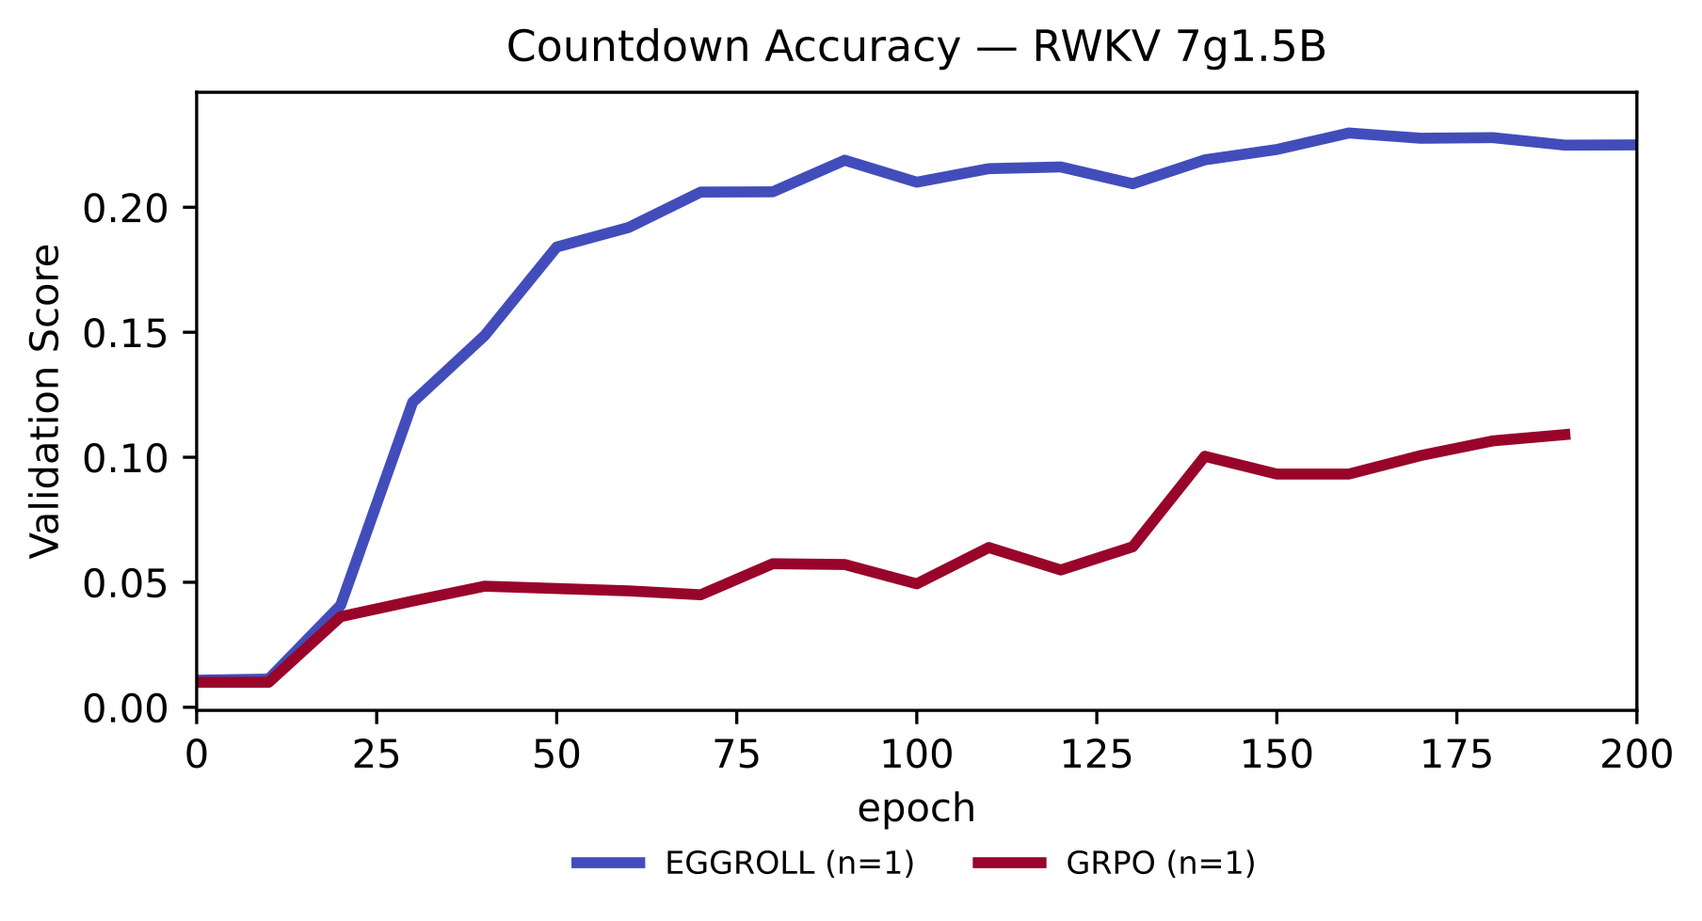
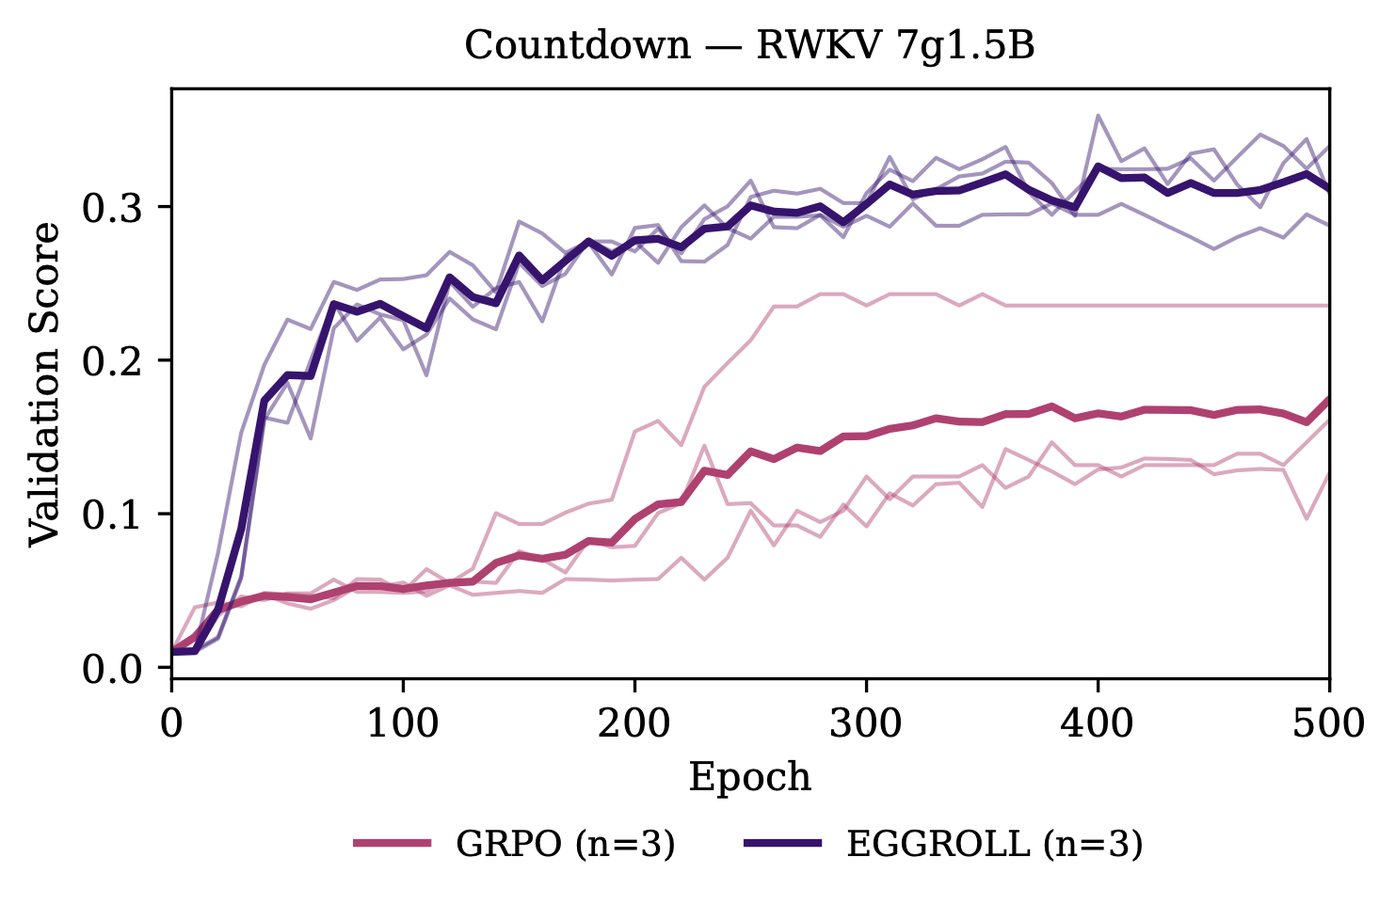
Blog update

diff --git a/blog/hyperscale_es/index.html b/blog/hyperscale_es/index.html
@@ -3,7 +3,7 @@
 "http://www.w3.org/TR/xhtml1/DTD/xhtml1-strict.dtd">
 <html xmlns="http://www.w3.org/1999/xhtml" lang="en" xml:lang="en">
 <head>
-<!-- 2025-11-09 Sun 21:47 -->
+<!-- 2025-11-21 Fri 13:16 -->
 <meta http-equiv="Content-Type" content="text/html;charset=utf-8" />
 <meta name="viewport" content="width=device-width, initial-scale=1" />
 <title>Evolution Strategies at the Hyperscale</title>
@@ -71,63 +71,51 @@
 
 
 <div><div><div><div><div class="content_inner"><section id="home"></section></div></div>
-<div id="outline-container-org0182930" class="outline-2">
-<h2 id="org0182930"><b>Evolution Strategies at the Hyperscale</b></h2>
-<div class="outline-text-2" id="text-org0182930">
+<div id="outline-container-org2916cfc" class="outline-2">
+<h2 id="org2916cfc"><b>Evolution Strategies at the Hyperscale</b></h2>
+<div class="outline-text-2" id="text-org2916cfc">
 <p class="c48">General ML Training Made as Fast and Easy as Inference</p><hr>
 
 <p>
 <i>Written by: <a href="https://bsarkar321.github.io/">Bidipta Sarkar</a></i><br />
-<i>Edited by: TODO</i><br />
 </p>
 
-<img src="throughput.png" style="width:80%;image-rendering:auto;">
+<img src="header.png" style="width:100%;image-rendering:auto;">
 
 <p>
-We are excited to introduce EGGROLL, a general-purpose algorithm for training ML systems (including LLMs) that matches the speed and resource requirements of batched inference, giving us 3x the speed of RL. EGGROLL is a variant of <a href="https://lilianweng.github.io/posts/2019-09-05-evolution-strategies/">Evolution Strategies</a> that uses batched LoRA inference to generate full-rank parameter updates, and we empirically find that it is comparable to full-parameter evolution per update while being orders of magnitude faster at large population sizes.<br />
-</p>
-
-<p>
-EGGROLL effectively <b>eliminates</b> the barrier between inference and training. In particular, <b>any system for high-throughput batched LoRA inference can now be converted into a system for high-throughput general neural network training</b>. In addition to standard ML settings, like supervised learning or reinforcement learning, this enables us to train networks that are aware of complex inference-time systems, such as multi-agent LLM systems or complex samplers where reinforcement learning would struggle.<br />
+We are excited to introduce EGGROLL, a general-purpose algorithm for training ML systems (including LLMs) that nearly matches the speed and resource requirements of batched inference, giving a <b>hundredfold increase in training throughput</b> over standard ES for billion-parameter models at large population sizes. EGGROLL is a variant of <a href="https://lilianweng.github.io/posts/2019-09-05-evolution-strategies/">Evolution Strategies</a> (ES) that uses low-rank perturbations of the model parameters to generate full-rank parameter updates.<sup><a id="fnr.large_enough" class="footref" href="#fn.large_enough" role="doc-backlink">1</a></sup><br />
 </p>
 
 <p>
-In the rest of this blog post, we describe the EGGROLL algorithm and show how it performs in classic ES settings (tabula-rasa game learning) and common LLM "reasoning" settings. We will also show preliminary experiments of high-throughput pretraining of a nonlinear RNN language model, where all the weights are in int8 and floating-point operations are never used, a task that is only made practical by EGGROLL.<br />
+As an ES variant, EGGROLL is general enough to optimize the model parameters within any inference system. Thanks to its increased efficiency, EGGROLL effectively <b>eliminates</b> the barrier between inference and training. Specifically, if you can perform <i>batched LoRA inference</i> on a system and define a <i>fitness</i> function, which specifies the relative performance of a neural network system on a task, EGGROLL can optimize all the parameters of that system to maximize the fitness function.<br />
 </p>
 
-
-<blockquote>
 <p>
-TL;DR: We introduce a new evolution-based method called EGGROLL. We show that:<br />
+In the rest of this blog post, we describe the EGGROLL algorithm and highlight experimental results on high-throughput pretraining of a <i>pure integer</i> nonlinear RNN language model that uses <i>no activation functions</i>, a task that is only made feasible by EGGROLL. We also demonstrate its potential as an RL alternative by training RWKV7 models on the countdown and gsm8k reasoning tasks.<br />
 </p>
-<div class="step2bullets">
-<ul class="org-ul">
-<li>In classic tabula-rasa game learning with small networks, EGGROLL does not compromise performance relative to standard ES, matching the method in <a href="https://arxiv.org/abs/1703.03864">OpenAI's Evolution Strategies paper</a> on a single GPU.<br /></li>
-<li>On LLM "reasoning" settings EGGROLL gets comparable results to <a href="https://arxiv.org/abs/2509.24372">concurrent work on naive ES on LLMs</a> <sup><a id="fnr.1" class="footref" href="#fn.1" role="doc-backlink">1</a></sup> on the countdown task using the RWKV-7 language model.<br /></li>
-<li>EGGROLL can stably train a nonlinear RNN language model, where the weights are in int8 and all operations are done on integers.<br /></li>
-</ul>
-</div>
 
 <p>
 To accompany this blog post, we also release:<br />
 </p>
 <div class="step2bullets">
 <ul class="org-ul">
-<li>A jax-based experimental neural network library to use EGGROLL on custom settings, along with starter code for training the RWKV language model.<br /></li>
-<li>A single-file implementation of pure int8 language model training. We highly encourage community contributions, similar to the <a href="https://github.com/KellerJordan/modded-nanogpt/tree/master">nanogpt speedrun</a>, to see how efficient we can make pure evolution pretraining in integer formats!<br /></li>
+<li>A <a href="https://www.alphaxiv.org/abs/2511.16652">full paper</a> detailing our theory and experimental results.<br /></li>
+<li>A <a href="https://github.com/ESHyperscale/HyperscaleES">jax-based experimental neural network library</a> to use EGGROLL on custom settings, along with starter code for training the RWKV language model.<br /></li>
+<li>A <a href="https://github.com/ESHyperscale/nano-egg">single-file implementation of pure int8 language model training</a>. We highly encourage community contributions, similar to the <a href="https://github.com/KellerJordan/modded-nanogpt/tree/master">nanogpt speedrun</a>, to see how efficient we can make pure evolution pretraining in integer formats!<br /></li>
 </ul>
 </div>
 
 <p>
-This is an early research checkpoint of our work. We will continue iterating on our methods and results, but we wanted to share these results early with the community to get feedback and more thoughts.<br />
+This is an early research checkpoint of our work. We will continue iterating on our methods and results, but we wanted to share these results early with the community to get feedback and more thoughts. We will be actively monitoring our <a href="https://www.alphaxiv.org/abs/2511.16652">alphaxiv discussion</a> page, so please add comments and questions there.<br />
 </p>
-</blockquote>
 </div>
 </div>
-<div id="outline-container-orgb72affc" class="outline-2">
-<h2 id="orgb72affc">What is EGGROLL</h2>
-<div class="outline-text-2" id="text-orgb72affc">
-<p><b>EGGROLL</b> stands for <b>E</b>volution <b>G</b>uided <b>G</b>roup <b>R</b>elative <b>O</b>nline <b>L</b>ow-rank <b>L</b>earning.</p>
+<div id="outline-container-orgf37ca9d" class="outline-2">
+<h2 id="orgf37ca9d">What is EGGROLL</h2>
+<div class="outline-text-2" id="text-orgf37ca9d">
+<p><b>EGGROLL</b> stands for <b>E</b>volution <b>G</b>uided <b>G</b>ene<b>r</b>al <b>O</b>ptimization via <b>L</b>ow-rank <b>L</b>earning. The method is illustrated in the figure below</p>
+
+<img src="diagram.png" style="width:100%;image-rendering:auto;">
 
 <p>
 To explain each part of the acronym, we will first give a brief overview on how <b>Evolution Strategies</b> works; for a more complete description of the history and variants, we highly recommend <a href="https://lilianweng.github.io/posts/2019-09-05-evolution-strategies/">Lilian Weng's blog post on ES</a>.<br />
@@ -142,7 +130,7 @@ Evolution Strategies work by directly optimizing the parameters of a neural netw
 </p>
 
 <p>
-where \(F\) is the fitness function, which measures how good a specific set of parameters are at the task at hand similar to the reward function in RL, \(\theta\) are the parameters you are optimizing, and \(\sigma\) is the standard deviation of the noise to add to the parameters. Typically the fitness function is not the raw rewards, since that would be sensitive to the scale of rewards, so we instead borrow the <b>Group Relative</b> normalization from <a href="https://arxiv.org/abs/2503.20783">DR GRPO</a>.<br />
+where \(F\) is the fitness function, which measures how good a specific set of parameters are at the task at hand similar to the reward function in RL, \(\theta\) are the parameters you are optimizing, and \(\sigma\) is the standard deviation of the noise to add to the parameters.<br />
 </p>
 
 <p>
@@ -164,7 +152,7 @@ Note that standard matrix multiplication has now turned into a batched matrix mu
 </p>
 
 <p>
-Our approach is instead to structure our perturbations to explicitly be low-rank. This enables us to do a large standard matrix multiplication, alongside a batched vector-vector multiplication and batched scalar-vector multipliation at rank 1. This is extremely fast and scalable, giving us the throughput curves in the headline image (less than 20% slower than pure non-lora inference). In jax, this is represented as:<br />
+Our approach is instead to structure our perturbations to explicitly be low-rank. This enables us to do a large standard matrix multiplication, alongside a batched vector-vector multiplication and batched scalar-vector multipliation at rank 1. This is extremely fast and scalable, giving us the throughput curves in the headline image (less than 10% slower than pure non-lora inference). In jax, this is represented as:<br />
 </p>
 <div class="org-src-container">
 <pre class="src src-python"><span class="linenr">1: </span><span style="color: #C678DD;">def</span> <span style="color: #61AFEF;">forward</span>(base_perturbation_key, sigma, parameter, x, thread_id, rank=1):
@@ -188,23 +176,55 @@ In the limit as rank increases<sup><a id="fnr.3" class="footref" href="#fn.3" ro
 </p>
 
 <p>
-Note that although individual perturbations are low-rank, the expression on the right side is actually high-rank, due to the properties of sums of low-rank matrices. We directly fuse this high rank update into the parameters at each update step, which is why we refer to this as <b>Online Low-rank Learning</b>. In comparison, using ES to directly optimize LoRA matrices will still be restricted to a low-rank perturbation, which may be <a href="https://thinkingmachines.ai/blog/lora/">enough for LLM reasoning</a> but not sufficient for supervised fine-tuning or training from scratch.<br />
+Note that although individual perturbations are low-rank, the expression on the right side is actually high-rank, due to the properties of sums of low-rank matrices. We directly fuse this high rank update into the parameters at each update step, which is why we refer to this as <b>Online Low-rank Learning</b>. In comparison, using ES to directly optimize LoRA matrices will still be restricted to a low-rank perturbation, which may be <a href="https://thinkingmachines.ai/blog/lora/">enough for LLM reasoning</a> but not sufficient for pretraining or supervised fine-tuning.<br />
 </p>
 </div>
 </div>
-<div id="outline-container-orgb5b7297" class="outline-2">
-<h2 id="orgb5b7297">Tabula Rasa Environment Learning</h2>
-<div class="outline-text-2" id="text-orgb5b7297">
+<div id="outline-container-orgcd91180" class="outline-2">
+<h2 id="orgcd91180">Training an EGG: Pure Integer Pretraining of a Nonlinear RNN with No Activation Functions</h2>
+<div class="outline-text-2" id="text-orgcd91180">
 <p>
-Evolution Strategies have historically been used as an alternative to reinforcement learning methods, due to its easy scalability on CPU clusters, as done in <a href="https://arxiv.org/abs/1703.03864">OpenAI's Evolution Strategies paper</a>. To demonstrate that the low-rank update does not compromise the performance of ES on these settings, we run experiments on [insert environments here].<br />
+To highlight the strength and flexibility of EGGROLL, we wanted to demonstrate that it can be used for training architectures that would previously be impractical or extremely difficult with typical backprop. We therefore work under the following constraints:<br />
+</p>
+
+<p>
+<b>Pure Integer Training.</b> Although prior work, like <a href="https://arxiv.org/abs/2310.11453">BitNet</a>, does quantization-aware training, we propose <i>end-to-end</i> training with pure integer datatypes. This means storing all weights in int8, as this is the fastest supported datatype on <a href="https://www.nvidia.com/en-gb/data-center/h100/">H100s</a>, and <i>only</i> using integer operations and lookup tables, including layernorms and the softmax operation for the loss calculation.<br />
+</p>
+
+<p>
+<b>Nonlinear RNN.</b> Modern language models require sequence-parallel architectures, like Transformers or state-space models, in order to avoid expensive backpropagation through time. However, these sequence-parallel architectures are unable to handle <a href="https://arxiv.org/abs/2404.08819">simple state-tracking</a>, while older RNNs, like LSTMs and GRUs, can handle these with only a single layer. We use a custom variant of <a href="https://arxiv.org/abs/1701.03452">minGRU</a> to demonstrate that sequence-parallelism is not needed for evolution, just a very large batch size to process multiple token sequences in parallel. With evolution, we can optimize for any sequence length without increasing memory requirements and take multiple updates within a single sequence using <a href="https://arxiv.org/abs/2304.12180v2">Noise-Reuse ES</a>.<br />
+</p>
+
+<p>
+<b>Removal of ALL Activation Functions.</b> Inspired by prior work that uses ES to <a href="https://openai.com/index/nonlinear-computation-in-deep-linear-networks/">exploit the nonlinear dynamics of floating-point operations</a>, we realize that the int8 tensor multiplication (with int32 accumulation) becomes a nonlinear operation when casting back to int8 due to its limited dynamic range. Therefore, we remove all activation functions from our MLP blocks and use no nonlinearities for the minGRU block, removing the tanh and sigmoid.<br />
+</p>
+
+<p>We name our architecture the <b>E</b>volved <b>G</b>enerative <b>G</b>ru, or <b>EGG</b> for short.</p>
+
+<p>
+To optimize EGG with EGGROLL, we keep the core infrastructure, but we make slight modifications to the optimization process. In particular, instead of taking arbitrarily large updates, we check if the update is larger than some threshold before pushing it one step in that direction. We do not use any dedicated optimizer states, like momentum, but this would be an interesting future direction.<br />
+</p>
+
+<p>
+To test our architecture and method, we trained a small D256-L6 parameter model to perform character-level language modeling on the <a href="https://huggingface.co/datasets/JeanKaddour/minipile">MiniPile</a> dataset, feeding 100 bytes per population member per update step, achieving 10 million tokens per second on a single H100. Our final loss curves are in the header figure of this blog post. We see that an 8 times larger population size results in a drop in loss of 0.4 bits/byte, achieving the best test loss of 3.41 bits/byte. Note that the population size we use is \(2^{18}=262144\), which is <b>two orders of magnitude larger</b> than population size used in <a href="https://arxiv.org/abs/1703.03864">OpenAI's ES work</a>.<br />
+</p>
+
+<p>
+We also see that ES can be quite data efficient. In particular, if each training sequence is shared among 512 members of the population (solid lines in the figure below), we get similar performance to only sharing among pairs (dashed lines) when the population size is large enough.<br />
+</p>
+
+<img src="data_efficient_pretrain_loss.png" style="width:100%;image-rendering:auto;">
+
+<p>
+We are actively working on scaling up training to larger population sizes and testing out alternative architectures. If you'd like to learn more and contribute to the development of this esoteric model, check out our <a href="https://github.com/ESHyperscale/nano-egg">single-file codebase</a>.<br />
 </p>
 </div>
 </div>
-<div id="outline-container-org3b16f0d" class="outline-2">
-<h2 id="org3b16f0d">LLM Reasoning</h2>
-<div class="outline-text-2" id="text-org3b16f0d">
+<div id="outline-container-orgbe2a414" class="outline-2">
+<h2 id="orgbe2a414">LLM Reasoning</h2>
+<div class="outline-text-2" id="text-orgbe2a414">
 <p>
-To highlight the scalability of our method, we do standard LLM "reasoning" training on the RWKV-7 language models.<br />
+In addition to our EGG model, we find that EGGROLL is a generally strong method for LLM fine-tuning. In particular, to highlight the scalability of our method, we do standard LLM "reasoning" training on the RWKV-7 language models with billions of parameters.<br />
 </p>
 
 <button type="button" class="collapsible" onclick="toggleCollapse(this)">Why RWKV?</button>
@@ -223,54 +243,36 @@ We are actively working on a vLLM and Megatron port with advisors from NVIDIA, w
 </div>
 
 <p>
-We first test our method on the countdown task to compare against the core results of the concurrent paper on <a href="https://arxiv.org/abs/2509.24372">ES with LLMs</a>. On the RWKV 1.5B model, we outperform the DR GRPO baseline, landing between the reported results of LLaMA-3.2 1B and Qwen 2.5 1.5B:<br />
+We first test our method on the countdown task to compare against the core results of the concurrent paper on <a href="https://arxiv.org/abs/2509.24372">ES with LLMs</a>.<sup><a id="fnr.4" class="footref" href="#fn.4" role="doc-backlink">4</a></sup> On the RWKV 1.5B model, we outperform the GRPO baseline, landing between the reported results of LLaMA-3.2 1B and Qwen 2.5 1.5B:<br />
 </p>
 <img src="countdown_small.png" style="width:80%;image-rendering:auto;">
 
 <p>
-For the 7B model, we outperform all reported results from the other paper<sup><a id="fnr.grpocountdown" class="footref" href="#fn.grpocountdown" role="doc-backlink">4</a></sup>:<br />
+For the 7B model, we outperform all reported results from the other paper despite starting from a weaker base model:<br />
 </p>
-<img src="countdown_large.png" style="width:80%;image-rendering:auto;">
+<img src="countdown_medium.png" style="width:80%;image-rendering:auto;">
 
 <p>
-We also test our model on math benchmarks, namely GSM8K and AIME. [TODO]<br />
+We also train our model on GSM8K and find that we outperform GRPO:<br />
 </p>
+<img src="gsm8k_medium.png" style="width:80%;image-rendering:auto;">
 </div>
 </div>
-<div id="outline-container-orgee37ebe" class="outline-2">
-<h2 id="orgee37ebe">Pure Integer Pretraining</h2>
-<div class="outline-text-2" id="text-orgee37ebe">
+<div id="outline-container-org7e2bd48" class="outline-2">
+<h2 id="org7e2bd48">Next Steps</h2>
+<div class="outline-text-2" id="text-org7e2bd48">
 <p>
-To highlight the potential of EGGROLL for training beyond gradient-based methods, we built a new language model architecture designed for fast inference that can work across a variety of accelerators. Some of the design decision include:<br />
-</p>
-<div class="step2bullets">
-<ul class="org-ul">
-<li>Storing all weights and performing all matrix multiplications in int8, as this is the fastest supported datatype on <a href="https://www.nvidia.com/en-gb/data-center/h100/">H100s</a>.<br /></li>
-<li>Never casting to floating point, because keeping all operations in integer formats can enable simpler accelerators. Our model only conducts int8 matrix multiplications (with int32 accumulate) and integer vector addition, multiplication, clipping, and bitwise manipulations. In fact, even our fitness calculation of the log likelihood of generation is done in int32 and precalculated lookup tables. Although prior work like <a href="https://arxiv.org/abs/2310.11453">BitNet</a> does quantization-aware training, we are not aware of prior work to keep the entire training process in int formats.<br /></li>
-<li>We use a fully quantized variant of <a href="https://arxiv.org/abs/1701.03452">minGRU</a> instead of self-attention or linear attention to demonstrate that sequence-parallelism is not needed for evolution, just a very large batch size to process individual tokens in parallel. With evolution, we can optimize for any sequence length without increasing memory requirements and take multiple updates within a single sequence using <a href="https://arxiv.org/abs/2304.12180v2">Noise-Reuse ES</a>.<br /></li>
-</ul>
-</div>
-
-<p>We name our architecture the <b>E</b>volved <b>G</b>enerative <b>G</b>ru, or <b>EGG</b> for short.</p>
-
-<p>
-To optimize EGG with EGGROLL, we keep the core infrastructure, but we make slight modifications to the optimization process. In particular, instead of taking arbitrarily large updates, we check if the update is larger than some threshold before pushing it one step in that direction. We do not use any dedicated optimizer states, like momentum, but this would be an interesting future direction.<br />
+We are actively working on testing EGGROLL on more reasoning tasks and other potential language model architectures. We are particularly interested in the end-to-end optimization of <i>neurosymbolic systems</i>, since EGGROLL naturally handles nondifferentiable components within a model.<br />
 </p>
 
 <p>
-To test our architecture and method, we trained a small 5M parameter model (D256-L6) on a single RTX 3080, achieving over 2.3 million tokens per second. Here is the training curve, where the y axis is bits per byte:<br />
-</p>
-
-<img src="pretraining.png" style="width:80%;image-rendering:auto;">
-
-<p>
-With 3.2 GB of data<sup><a id="fnr.5" class="footref" href="#fn.5" role="doc-backlink">5</a></sup>, we get a loss of around 4 bits/byte in 25 mins on one RTX 3080. Note that a unigram model would get a loss of 4.91 bits/byte while gzip with max compression gives 2.767 bits/byte. The models are clearly able to learn something, but we still consider this very preliminary and not a practical alternative to gradient-based pretraining <b>yet</b>. However, we are actively scaling up the model to see how far we can get with this crazy architecture.<br />
+If you have any questions, feel free to reach out on our <a href="https://www.alphaxiv.org/abs/2511.16652">alphaxiv discussion page</a> or opening issues on our <a href="https://github.com/ESHyperscale/HyperscaleES">github repo</a>.<br />
 </p>
 </div>
 </div>
-<div id="outline-container-org4234a44" class="outline-2">
-<h2 id="org4234a44"></h2>
-<div class="outline-text-2" id="text-org4234a44">
+<div id="outline-container-orgaa0291f" class="outline-2">
+<h2 id="orgaa0291f"></h2>
+<div class="outline-text-2" id="text-orgaa0291f">
 </div><div><div class="footer"><p id="copyright">&copy; 2025 Bidipta Sarkar</p></div></div>
 </div>
 </div>
@@ -278,8 +280,8 @@ With 3.2 GB of data<sup><a id="fnr.5" class="footref" href="#fn.5" role="doc-bac
 <h2 class="footnotes">Footnotes: </h2>
 <div id="text-footnotes">
 
-<div class="footdef"><sup><a id="fn.1" class="footnum" href="#fnr.1" role="doc-backlink">1</a></sup> <div class="footpara" role="doc-footnote"><p class="footpara">
-Our first public github commit of an early version of EGGROLL is <a href="https://github.com/bsarkar321/jaxrwkv/commit/6d92566eacc2c8c12a946b3e2a3d832dbc1e63fe">here</a>, on Aug 13.<br />
+<div class="footdef"><sup><a id="fn.large_enough" class="footnum" href="#fnr.large_enough" role="doc-backlink">1</a></sup> <div class="footpara" role="doc-footnote"><p class="footpara">
+Full-rank parameter updates can occur when the population size is at least as big as the hidden dimension of the model.<br />
 </p></div></div>
 
 <div class="footdef"><sup><a id="fn.2" class="footnum" href="#fnr.2" role="doc-backlink">2</a></sup> <div class="footpara" role="doc-footnote"><p class="footpara">
@@ -290,12 +292,8 @@ The concurrent work on <a href="https://arxiv.org/abs/2509.24372">ES on LLMs</a>
 The theory claims that this is the gradient estimate at the limit as rank increases, and we empirically find that this continues to be strong even at rank 1.<br />
 </p></div></div>
 
-<div class="footdef"><sup><a id="fn.grpocountdown" class="footnum" href="#fnr.grpocountdown" role="doc-backlink">4</a></sup> <div class="footpara" role="doc-footnote"><p class="footpara">
-Our GRPO training is too slow to get reasonable results for the 7B RWKV model, since we have not incorporated cuda kernels yet. However, this is on the roadmap to give a fair comparison.<br />
-</p></div></div>
-
-<div class="footdef"><sup><a id="fn.5" class="footnum" href="#fnr.5" role="doc-backlink">5</a></sup> <div class="footpara" role="doc-footnote"><p class="footpara">
-The amount of unique data is actually 1.6 GB due to antithetical sampling.<br />
+<div class="footdef"><sup><a id="fn.4" class="footnum" href="#fnr.4" role="doc-backlink">4</a></sup> <div class="footpara" role="doc-footnote"><p class="footpara">
+Our first public github commit of an early version of EGGROLL is <a href="https://github.com/bsarkar321/jaxrwkv/commit/6d92566eacc2c8c12a946b3e2a3d832dbc1e63fe">here</a>, on Aug 13.<br />
 </p></div></div>
 
 
